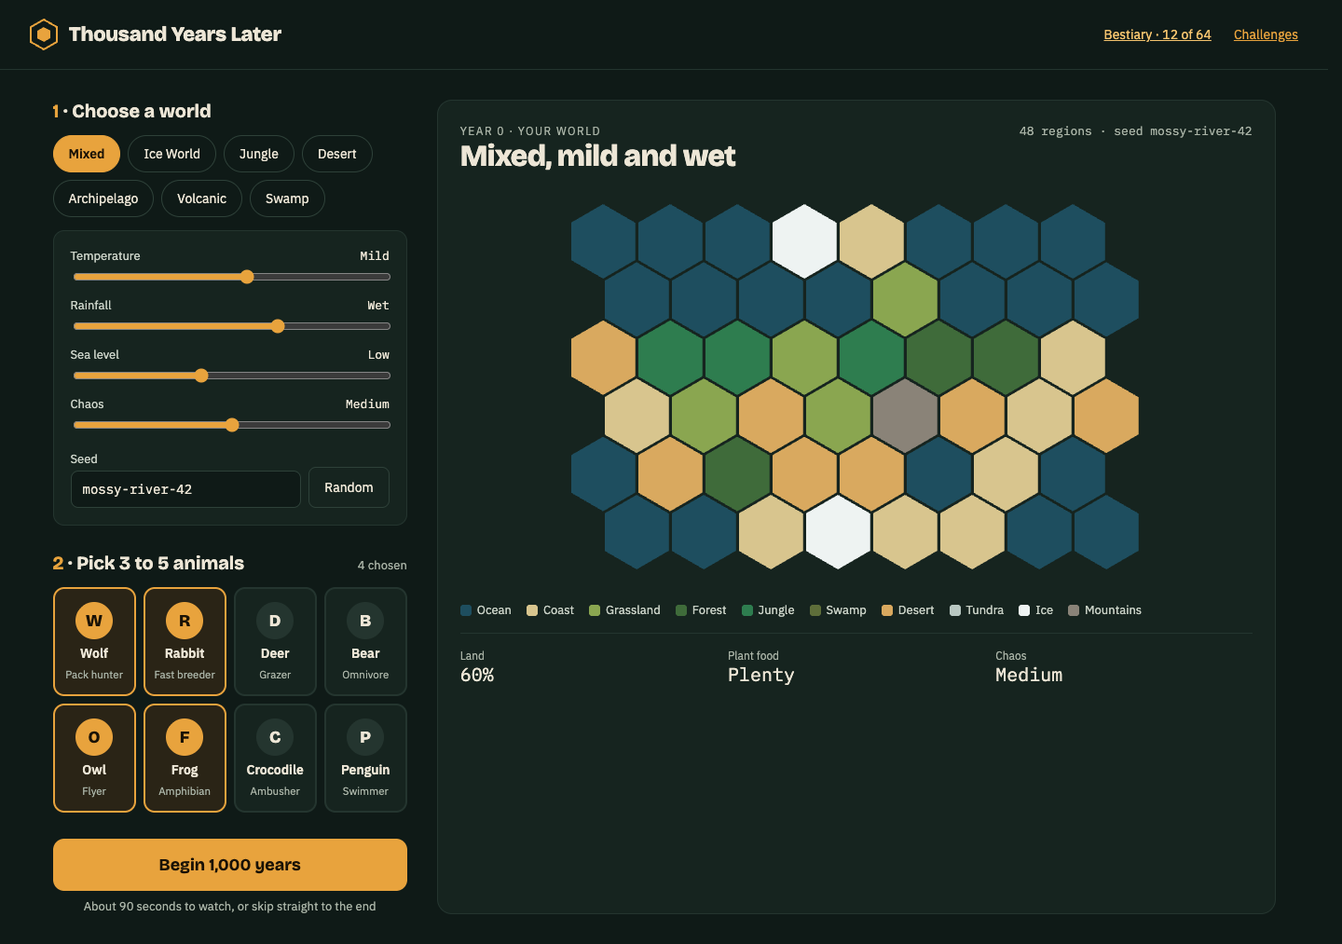
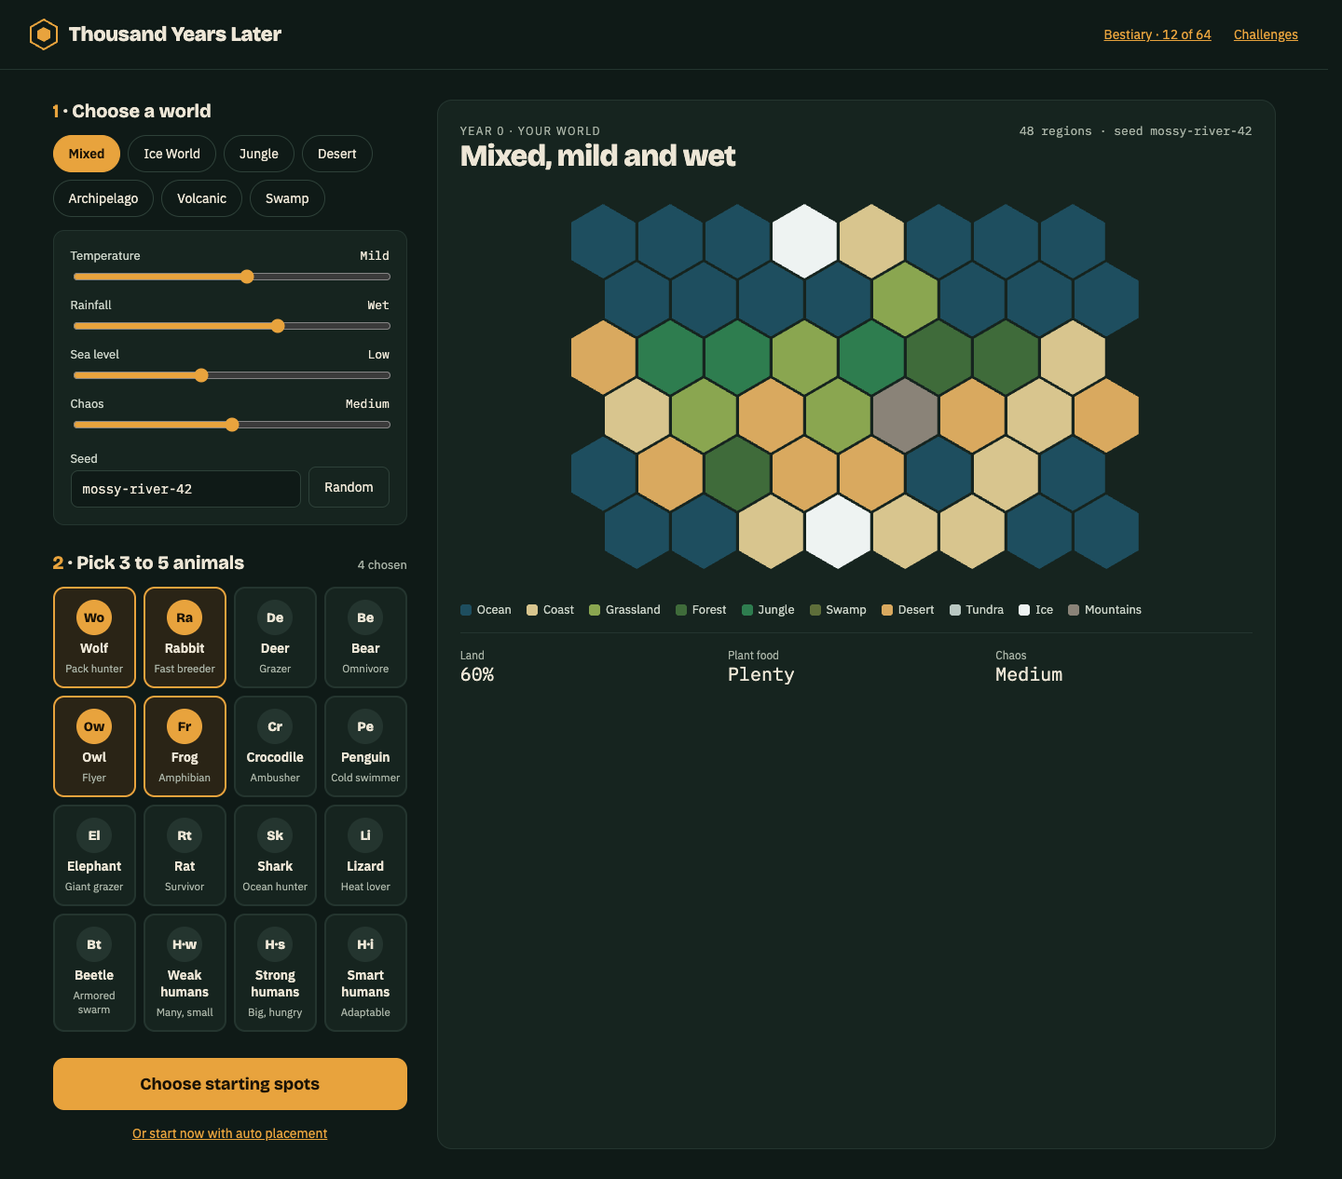
Update design docs: expanded roster, placement screen, discoveries
- DESIGN.md: launch roster of 13 animals + 3 humans, placement step,
  events, larger mutation catalog, replayability notes
- Add DISCOVERIES.md
- Replace mockups with a new 4-screen set (setup, placement,
  simulating, reveal)

diff --git a/docs/DESIGN.md b/docs/DESIGN.md
@@ -2,19 +2,21 @@
 
 > Source of truth for what the game is and how it should eventually look.
 > This describes the FULL game. Each build step implements only what its prompt asks for.
+> See also: docs/DISCOVERIES.md (special creatures players can evolve).
 
 ## The idea
 
-The player picks a climate and 3 to 5 real animals, simulates 1,000 years of cartoonish evolution, and gets a big reveal of what the world and its creatures became.
+The player picks a climate and 3 to 5 real animals, decides where they start (or lets the game decide), simulates 1,000 years of cartoonish evolution, and gets a big reveal of what the world and its creatures became.
 
 No realism needed. The goal is surprise, fun and replayability. Starting with real animals gives instant attachment ("what happened to my wolves?"), and the reveal at the end is the payoff.
 
 ## The core loop
 
 1. **Set up** (about 30 seconds): pick a world and 3 to 5 animals.
-2. **Simulate** (1 to 2 minutes): watch centuries fly by with events popping up, or skip to the end.
-3. **The reveal**: "A thousand years later…" — what survived, what died out, what new creatures exist, and how the world looks now.
-4. **Replay**: same setup with a new seed for a different outcome, or tweak one thing.
+2. **Place** (optional): see where every animal starts, drag the ones you care about.
+3. **Simulate** (1 to 2 minutes): watch centuries fly by with events popping up, or skip to the end.
+4. **The reveal**: "A thousand years later…" — what survived, what died out, what new creatures exist, and how the world looks now.
+5. **Replay**: back to placement with the same setup, tweak one thing, or start fresh with a new seed.
 
 The reveal is the whole game. Everything else exists to make it surprising.
 
@@ -24,11 +26,57 @@ The reveal is the whole game. Everything else exists to make it surprising.
 
 **Sliders:** temperature, rainfall, sea level, and chaos (how often disasters and wild mutations happen).
 
-**Seed:** a text seed plus a "Random" button. Same seed + same settings = same world and same history.
+**Seed:** a text seed plus a "Random" button. Same seed + same settings + same placements = same world and same history.
 
-**Animal roster (first 8):** wolf, rabbit, deer, bear, owl, frog, crocodile, penguin. Later: elephant, snake, crab, cat, shark, beetle.
+**Skip option:** "Start with auto placement" goes straight to the simulation for players who don't want to place animals.
 
-Each animal has simple stats: size, speed, attack, defense, diet, heat tolerance, cold tolerance, land or water, breeding rate.
+## Animal roster
+
+Each animal fills a different role, so picking it changes the run. Each has simple stats: size, speed, attack, defense, diet, heat tolerance, cold tolerance, land or water, breeding rate.
+
+### Launch roster (13 animals + 3 humans)
+
+| Animal | Role |
+| --- | --- |
+| Wolf | Pack predator |
+| Rabbit | Small plant-eater, fast breeder |
+| Deer | Grazer |
+| Bear | Big omnivore |
+| Owl | Flying hunter |
+| Frog | Water and land, swamp lover |
+| Crocodile | Ambush predator, water and land |
+| Penguin | Cold specialist, swimmer |
+| Elephant | Giant plant-eater, tough, breeds very slowly |
+| Rat | Tiny, eats anything, breeds explosively. The great survivor. |
+| Shark | Ocean predator, water only |
+| Lizard | Hot-climate specialist, cold-blooded |
+| Beetle | Insect, huge numbers, armored |
+| Weak humans | Small, breed fast, eat anything. Survive by numbers. |
+| Strong humans | Big attack and defense, need lots of food, breed slowly. Dominate early, crash in hard times. |
+| Smart humans | Better climate tolerance (they "build shelter") and a better chance of helpful mutations, but weak in fights and slow to breed. |
+
+**Humans are animals like any other.** No tools, farming, buildings or technology. The three versions must have clear tradeoffs so none wins most runs.
+
+### Later batches (unlock rewards)
+
+Monkey, Octopus, Eagle, Camel, Bat, Tortoise, Crab, Goat. New additions should lean toward plant-eaters and prey, since predators are already well covered.
+
+**Ancient pack (later unlock):** mammoth, sabre-toothed cat, giant sloth, dodo, moa. Earned by re-evolving a few of these creatures through discoveries.
+
+**Skipped:** pets and farm animals (they overlap with existing roles), dinosaurs as starting animals (breaks the "real animals today" idea).
+
+## Placement
+
+A separate screen between setup and simulation.
+
+- **Opens with every animal already auto-placed**, so the player can just press Start.
+- **Each animal is either "Auto" or "Placed by you."** Dragging an animal onto a hex marks it as placed.
+- **Auto placement is sensible:** it picks a region that suits the animal (penguins near ice or coast, frogs near swamp or water). It uses the seed, so it's the same every time for the same setup.
+- **Players can place animals somewhere bad on purpose.** Penguins in the desert is a valid experiment. Only auto placement is "smart."
+- **Sidebar** lists each animal with its region and how well it fits ("Penguin · Desert · Bad fit").
+- **Buttons:** "Re-roll auto placements" and "Reset."
+- Animals don't share a starting hex unless the player puts them there.
+- Drag and drop must work with mouse and touch.
 
 ## The simulation (cartoon evolution)
 
@@ -43,45 +91,72 @@ Each animal has simple stats: size, speed, attack, defense, diet, heat tolerance
 3. Populations grow, shrink, or move to neighboring regions.
 4. Mutations roll: each population has a chance to gain one from the catalog.
 5. If a mutation helps, that group outgrows the rest. After two or three mutations set a population apart, it becomes a new species with a name and portrait.
-6. Events: ice age, meteor, volcano, flood, plague, drought. These reshape biomes and wipe out the unlucky.
+6. New species are checked against the discovery rules (docs/DISCOVERIES.md).
+7. Events reshape biomes and wipe out the unlucky.
 
-### Mutation catalog (about 30)
+### Mutation catalog (about 32)
 
 Each mutation has a stat effect and a visual change. Some are rare so players hunt for them.
 
-- **Movement:** wings, gills, webbed feet, extra legs, longer legs
+- **Movement:** wings, flightless, gills, webbed feet, extra legs, longer legs
 - **Defense:** shell, spikes, armor plates, thick fur, no fur
 - **Weapons:** horns, tusks, fangs, venom, claws
+- **Diet:** meat-eater (lets plant-eaters become predators)
 - **Body:** giant size, tiny size, long neck, long tail
 - **Senses and looks:** camouflage, glowing skin, extra eyes, big ears
 - **Habits:** burrowing, tree-climbing, swimming
 
+### Events
+
+- **Common:** ice age, drought, flood, plague, volcano.
+- **Rare** (memorable when they happen): supervolcano, comet strike, sudden sea level drop, a plague that targets one animal.
+
 ### Naming
 
-Base animal + key mutations: "Fanged Snow Rabbit", "Glowing Swamp Frog", "Burrow Owl", plus a joke scientific name like *Lepus dentatus*.
+Base animal + key mutations: "Fanged Snow Rabbit", "Glowing Swamp Frog", "Burrow Owl", plus a joke scientific name like *Lepus dentatus*. A species that matches a discovery takes the discovery's name instead ("Woolly Mammoth").
+
+Every species is still unique even when it matches a discovery: a Woolly Mammoth can also have glowing tusks or extra legs.
+
+## Discoveries
+
+Special creatures players can evolve, in three tiers: **Re-evolved** (echoes of real extinct animals, like the Woolly Mammoth or Megalodon), **Oddity** (this game's own, like the Killer Rabbit), and **Legend** (myths, like the Dragon or Yeti). Full list, conditions and data format: **docs/DISCOVERIES.md**.
 
 ## The reveal screen
 
 - **World map, before and after**: ice spread, deserts grew, islands flooded.
+- **Discovery cards**: big card for first-time discoveries, small badge for repeats.
 - **Survivors gallery**: portraits of every living species, each with a short field-guide entry and a rarity label.
 - **Family tree**: each starting animal with branches showing what it turned into and when.
 - **Extinctions**: a list with causes ("starved during the Great Freeze, year 655").
-- **Headlines**: the three most surprising outcomes ("Rabbits became the top predator").
+- **Headlines**: the three most surprising outcomes, written from templates filled with details from this run ("The rabbits of the eastern plains became hunters after the wolves starved in year 655").
 - **Postcard**: a side-view scene of the most dominant region with its creatures. This is the image people share.
 
-## Replayability
+## Replayability and keeping it fresh
+
+Discoveries are the collectible layer. The main source of freshness must be that runs actually turn out differently.
 
 - **Randomness:** the same setup gives a different result with a new seed.
-- **Bestiary:** every species ever created across runs, with rarity labels.
-- **Discoveries:** "First flying fish", "First giant rabbit", "A world with no predators".
+- **Placement:** the same animals in different starting spots lead to very different outcomes.
+- **Bestiary:** every species ever created across runs, with rarity labels and hints for undiscovered entries.
+- **Discoveries:** see docs/DISCOVERIES.md.
 - **Challenges:** "Make penguins dominate a desert world", "Survive with only plant-eaters".
-- **Rare endings:** occasionally a species becomes intelligent and starts building simple shelters.
+- **Daily world:** everyone gets the same seed and world each day and compares results.
+- **Rare events** that players remember.
+- **Rare endings:** occasionally a non-human species becomes intelligent ("The Awakening"). Humans don't trigger this ending.
+
+**Balancing must protect variety.** The balancing script tracks:
+- which animal ends up on top (no animal or human version should win most runs),
+- how many new species appear and survive,
+- how often everything dies (should be rare),
+- how often each discovery happens (see target rates in DISCOVERIES.md),
+- how different runs are from each other.
 
 ## Screens (see docs/screens/)
 
-1. **Setup:** left panel with preset chips, sliders, seed, and a 4×2 grid of animal cards (selected cards have an amber border). Right side shows the hex map preview with a biome legend and summary stats. Big amber "Begin 1,000 years" button.
-2. **Simulating:** a huge "Year 640" counter with the current era name, pause and speed controls (1×, 4×, 16×), "Skip to the end". The map shows colored dots for species. Below it, a timeline from year 0 to 1000 with diamond markers for events. Right side: living species with population bars, and a running chronicle of events, newest first.
-3. **The reveal:** "A thousand years later…" headline with a one-line summary and Run again / Share postcard / Tweak one thing buttons. Then before/after maps, three headline cards, new-species cards with portraits and trait chips, family tree, and a "Gone" list.
+1. **Setup:** left panel with preset chips, sliders, seed, and the animal roster as a grid of cards (selected cards have an amber border). Right side shows the hex map preview with a biome legend and summary stats. Big amber button to continue, plus a small "Start with auto placement" option.
+2. **Placement:** large hex map with each chosen animal shown as a token on its starting hex. Tokens marked "Auto" are dashed; tokens the player placed are solid amber. A sidebar lists each animal with its region, fit ("Good fit", "Risky", "Bad fit") and an Auto / Placed label. Buttons: Re-roll auto, Reset, and a big "Start 1,000 years".
+3. **Simulating:** a huge "Year 640" counter with the current era name, pause and speed controls (1×, 4×, 16×), "Skip to the end". The map shows colored dots for species. Below it, a timeline from year 0 to 1000 with diamond markers for events. Right side: living species with population bars, and a running chronicle of events, newest first.
+4. **The reveal:** "A thousand years later…" headline with a one-line summary and Run again / Share postcard / Tweak one thing buttons. Then before/after maps, discovery cards, three headline cards, new-species cards with portraits and trait chips, family tree, and a "Gone" list.
 
 ## Visual style
 
@@ -110,22 +185,23 @@ Dark "natural history at night" theme. Calm and slightly stylized, not neon.
 - TypeScript + Vite + React, Vitest for tests.
 - Simulation in pure TypeScript under `src/sim/` (later in a Web Worker).
 - Canvas 2D for the map; SVG for creature portraits.
-- Seeded random generator; the simulation must be fully deterministic.
+- Seeded random generator; the simulation must be fully deterministic. Placements are part of the run's inputs.
+- Discovery rules live in a data file, not hard-coded logic.
 - Static site, no backend. Bestiary and discoveries saved in IndexedDB.
-- A headless balancing script that runs 1,000 simulations and reports survival, new species, total wipeouts, and whether any animal wins too often.
+- A headless balancing script that runs 1,000 simulations and reports the metrics listed under "Balancing must protect variety".
 
 ## Milestones (part-time)
 
-1. **Week 1:** hex world, biomes, climate presets, rendered map.
-2. **Week 2:** animals with stats, food chain, populations growing and moving.
-3. **Week 3:** mutations, new species, naming, events. Build the balancing script.
-4. **Week 4:** reveal screen with placeholder art.
+1. **Week 1:** hex world, biomes, climate presets, rendered map. ✅
+2. **Week 2:** the 13 animals + 3 humans with stats, food chain, populations growing and moving, placement screen with auto placement and drag and drop.
+3. **Week 3:** mutations (including flightless and meat-eater), new species, naming, events, discoveries. Build the balancing script.
+4. **Week 4:** reveal screen with placeholder art, including discovery cards.
 5. **Weeks 5–6:** part-based portraits and the postcard scene.
-6. **Week 7:** Bestiary, discoveries, challenges, share card.
+6. **Week 7:** Bestiary, challenges, daily world, share card.
 7. **Week 8:** balancing and polish.
 
 **The week 4 test:** if reading the reveal with placeholder art already makes you want to hit "Run again", the idea works.
 
 ## Out of scope
 
-No 3D, no physics, no individual creature agents, no evolving brains, no backend. Accessibility is out of scope for the first builds, by choice.
+No 3D, no physics, no individual creature agents, no evolving brains, no backend, no human technology. Accessibility is out of scope for the first builds, by choice.

diff --git a/docs/DISCOVERIES.md b/docs/DISCOVERIES.md
@@ -1,0 +1,179 @@
+# Thousand Years Later — Discoveries
+
+> Special creatures players can evolve by accident or on purpose. When a new species matches a discovery's conditions, it gets a special name, a discovery card on the reveal screen, and a permanent spot in the Bestiary.
+> Part of the full game design. Build this when the step that adds it says so.
+
+## Why this exists
+
+Discoveries reward experimenting. "Put an elephant in an Ice World and see what happens" becomes a goal, and "You re-evolved the mammoth" is the kind of moment people share. They also give the Bestiary something to fill and unlock rewards.
+
+## Three tiers
+
+| Tier | What it is | How often (target) |
+| --- | --- | --- |
+| **Re-evolved** | Echoes a real extinct animal or a real evolutionary pattern | Common: 10–30% of runs where the setup makes it possible |
+| **Oddity** | Strange but plausible-feeling creatures that are this game's own | Uncommon: 5–15% |
+| **Legend** | Creatures from myth (dragons, yetis, mermaids) | Rare: 1–3% |
+
+The balancing script should report how often each discovery happens, and conditions get tuned until the rates land roughly here.
+
+## How a discovery is matched
+
+Each discovery is a rule in a data file, checked whenever a new species is created:
+
+```ts
+type Discovery = {
+  id: string;                 // "woolly-mammoth"
+  name: string;               // the special species name
+  tier: "reevolved" | "oddity" | "legend";
+  lineage: AnimalId;          // must descend from this starting animal
+  requires: MutationId[];     // all of these mutations
+  env?: {
+    biomes?: Biome[];         // living mostly in one of these biomes
+    island?: boolean;         // population isolated on a small land mass
+    afterEvent?: EventId;     // appeared after this event
+  };
+  minSize?: number;           // size stat threshold
+  hint: string;               // shown in the Bestiary before it's found
+  card: string;               // one-line text on the discovery card
+};
+```
+
+Rules:
+- Keep each rule to **2 or 3 conditions**, so players can find them by experimenting.
+- Undiscovered entries show only their **hint** in the Bestiary, never the conditions.
+- A discovery's name replaces the generated name ("Woolly Elephant" becomes "Woolly Mammoth").
+- First-time discoveries get a big card on the reveal screen. Repeats get a small badge.
+- Some discoveries need mutations not yet in the catalog. These are marked **(new mutation)** and should be added to the catalog when this is built.
+
+## Discoveries by starting animal
+
+### Elephant
+| Discovery | Tier | Conditions | Card |
+| --- | --- | --- | --- |
+| **Woolly Mammoth** | Re-evolved | Thick fur + tusks, ice or tundra | You re-evolved the mammoth. |
+| **Dwarf Elephant** | Re-evolved | Tiny size, island | Island life shrank the elephant to pony size, just like real ones did. |
+| **Snorkel Elephant** | Oddity | Swimming + webbed feet, coast | It walks the sea floor and breathes through its trunk. |
+
+### Wolf
+| Discovery | Tier | Conditions | Card |
+| --- | --- | --- | --- |
+| **Dire Wolf** | Re-evolved | Giant size + thick fur, cold biomes | A bigger, heavier wolf, like the one that hunted in the last ice age. |
+| **Sabre-toothed Wolf** | Re-evolved | Fangs + giant size | Fangs so long it can barely close its mouth. |
+| **Sea Wolf** | Oddity | Swimming + webbed feet, coast | A wolf that hunts fish in packs along the shore. |
+
+### Rabbit
+| Discovery | Tier | Conditions | Card |
+| --- | --- | --- | --- |
+| **Giant Island Rabbit** | Re-evolved | Giant size, island | A real giant rabbit once lived on a Mediterranean island. Now yours does too. |
+| **Killer Rabbit** | Oddity | Fangs + meat-eater **(new mutation)** | Rabbits became the top predator. |
+| **Jackalope** | Legend | Horns + long legs, grassland or desert | The legend of the horned rabbit is real here. |
+
+### Deer
+| Discovery | Tier | Conditions | Card |
+| --- | --- | --- | --- |
+| **Giant Elk** | Re-evolved | Giant size + horns | Antlers wider than a car, like the giant deer of the ice age. |
+| **Swamp Deer** | Oddity | Webbed feet + swimming, swamp | A deer that wades and dives for water plants. |
+| **Unicorn** | Legend | Horns + glowing skin, forest | One horn, faint glow, deep forest. The legend lives. |
+
+### Bear
+| Discovery | Tier | Conditions | Card |
+| --- | --- | --- | --- |
+| **Cave Bear** | Re-evolved | Burrowing + thick fur, ice or tundra | It sleeps through the winters in caves, like its ice-age cousins. |
+| **Sea Bear** | Oddity | Swimming + webbed feet + thick fur | Lives more in the water than on land. |
+| **Armored Bear** | Oddity | Armor plates + giant size | A bear covered in plates. Nothing hunts it. |
+
+### Owl
+| Discovery | Tier | Conditions | Card |
+| --- | --- | --- | --- |
+| **Giant Running Owl** | Re-evolved | Giant size + flightless **(new mutation)**, island | A real metre-tall owl once ran through Cuban forests. |
+| **Dodo-like Owl** | Re-evolved | Flightless + tiny size, island with no predators | No predators, no need to fly. It forgot how. |
+| **Burrow Owl** | Oddity | Flightless + burrowing + big eyes | Digs tunnels and hunts in the dark. |
+
+### Frog
+| Discovery | Tier | Conditions | Card |
+| --- | --- | --- | --- |
+| **Devil Frog** | Re-evolved | Giant size + armor plates | A frog big enough to eat small animals, like the real "devil frog" of old. |
+| **Glowing Swamp Frog** | Oddity | Glowing skin + venom, swamp | Its glow warns everything: don't eat me. |
+| **Gliding Frog** | Oddity | Webbed feet + tree-climbing, jungle | Glides from tree to tree on webbed feet. |
+
+### Crocodile
+| Discovery | Tier | Conditions | Card |
+| --- | --- | --- | --- |
+| **Super Croc** | Re-evolved | Giant size, swamp or coast | Twelve metres long, like the giant crocodiles of the past. |
+| **Sea Crocodile** | Re-evolved | Gills + swimming, ocean | It left land for good, like ancient sea crocodiles did. |
+| **Running Crocodile** | Re-evolved | Long legs, grassland or desert | Long legs, upright stance, chases prey on land. |
+
+### Penguin
+| Discovery | Tier | Conditions | Card |
+| --- | --- | --- | --- |
+| **Giant Penguin** | Re-evolved | Giant size, ice or coast | As tall as a person, like real giant penguins of the past. |
+| **Flying Penguin** | Oddity | Wings | Penguins learned to fly again. |
+| **Desert Penguin** | Oddity | Survives in desert for 200+ years | Nobody knows how. It just works. |
+
+### Rat
+| Discovery | Tier | Conditions | Card |
+| --- | --- | --- | --- |
+| **Giant Rat** | Re-evolved | Giant size | The size of a bull, like a real giant rodent from the past. |
+| **Naked Mole Rat** | Oddity | Burrowing + no fur | Lives underground in huge colonies. Practically immortal. |
+| **Last Rats Standing** | Oddity | Rats are the only survivors after a meteor | After the meteor, only the rats remained. |
+
+### Shark
+| Discovery | Tier | Conditions | Card |
+| --- | --- | --- | --- |
+| **Megalodon** | Re-evolved | Giant size, ocean | You re-evolved the megalodon. |
+| **Walking Shark** | Re-evolved | Extra legs or long legs, coast | It walks between tide pools on its fins, like some real sharks do. |
+| **Land Shark** | Legend | Lives mostly on land | Sharks crawled out of the sea. Nowhere is safe. |
+
+### Lizard
+| Discovery | Tier | Conditions | Card |
+| --- | --- | --- | --- |
+| **Dragon Lizard** | Re-evolved | Giant size + venom | A giant venomous lizard, like the ancient Megalania. |
+| **Frilled Glider** | Oddity | Big ears **(acts as frills)** + tree-climbing, jungle | Spreads its frills and glides between trees. |
+| **Dragon** | Legend | Wings + giant size + volcanic | It flies. It's huge. It lives in volcanoes. You made a dragon. |
+
+### Beetle
+| Discovery | Tier | Conditions | Card |
+| --- | --- | --- | --- |
+| **Titan Beetle** | Re-evolved | Giant size | The size of a dog, like the giant insects of the ancient past. |
+| **Firefly Swarm** | Oddity | Glowing skin + wings | At night, the whole forest glows. |
+| **Tank Beetle** | Oddity | Armor plates + horns + giant size | Nothing can bite through it. |
+
+### Humans (weak, strong, smart)
+| Discovery | Tier | From | Conditions | Card |
+| --- | --- | --- | --- | --- |
+| **Little Island Folk** | Re-evolved | Any human | Tiny size, island | Island humans shrank, like the real "hobbit" people of Flores. |
+| **Cold Folk** | Re-evolved | Strong humans | Thick fur + cold biomes | Stocky, hairy, built for the cold, like Neanderthals. |
+| **Yeti** | Legend | Strong humans | Giant size + thick fur, mountains or ice | Something big walks the snow. |
+| **Merfolk** | Legend | Smart humans | Gills + webbed feet + swimming | Humans returned to the sea. |
+| **Cave Folk** | Oddity | Smart humans | Big eyes + burrowing | They live underground and see in the dark. |
+| **Swarm Folk** | Oddity | Weak humans | Population over a high threshold for 300+ years | Billions of tiny humans. They're everywhere. |
+
+## Special discoveries (any animal)
+
+| Discovery | Tier | Conditions | Card |
+| --- | --- | --- | --- |
+| **The Awakening** | Legend | A **non-human** species crosses the intelligence threshold | Something new is thinking. (The rare "became intelligent" ending.) |
+| **Island Giant** | Oddity | Any species with giant size, island | Islands make small things big. |
+| **Island Dwarf** | Oddity | Any big starting animal with tiny size, island | Islands make big things small. |
+| **Back to the Sea** | Oddity | Any land animal gains gills | It left the land behind. |
+| **Convergence** | Oddity | Two different lineages end up with the same 3 mutations | Different animals, same answer. Evolution repeats itself. |
+| **Apex Prey** | Oddity | A starting plant-eater becomes the top predator | The hunted became the hunter. |
+| **Silent World** | Oddity | Every starting animal goes extinct | Nothing made it. Try again? |
+
+## New mutations needed
+
+These discoveries need mutations not yet in the catalog:
+
+- **Flightless:** loses flight, gains size or speed on the ground. Owls and other flyers.
+- **Meat-eater:** shifts diet toward meat. Lets plant-eaters become predators.
+
+## Bestiary hints (examples)
+
+Shown for undiscovered entries, never the conditions:
+
+- Woolly Mammoth: "Something big and hairy roams the ice."
+- Dragon: "Smoke rises from the volcano. Something moves inside."
+- Merfolk: "There are stories of people beneath the waves."
+- Jackalope: "A rabbit… with horns?"
+- The Awakening: "One day, something else will start to think."
